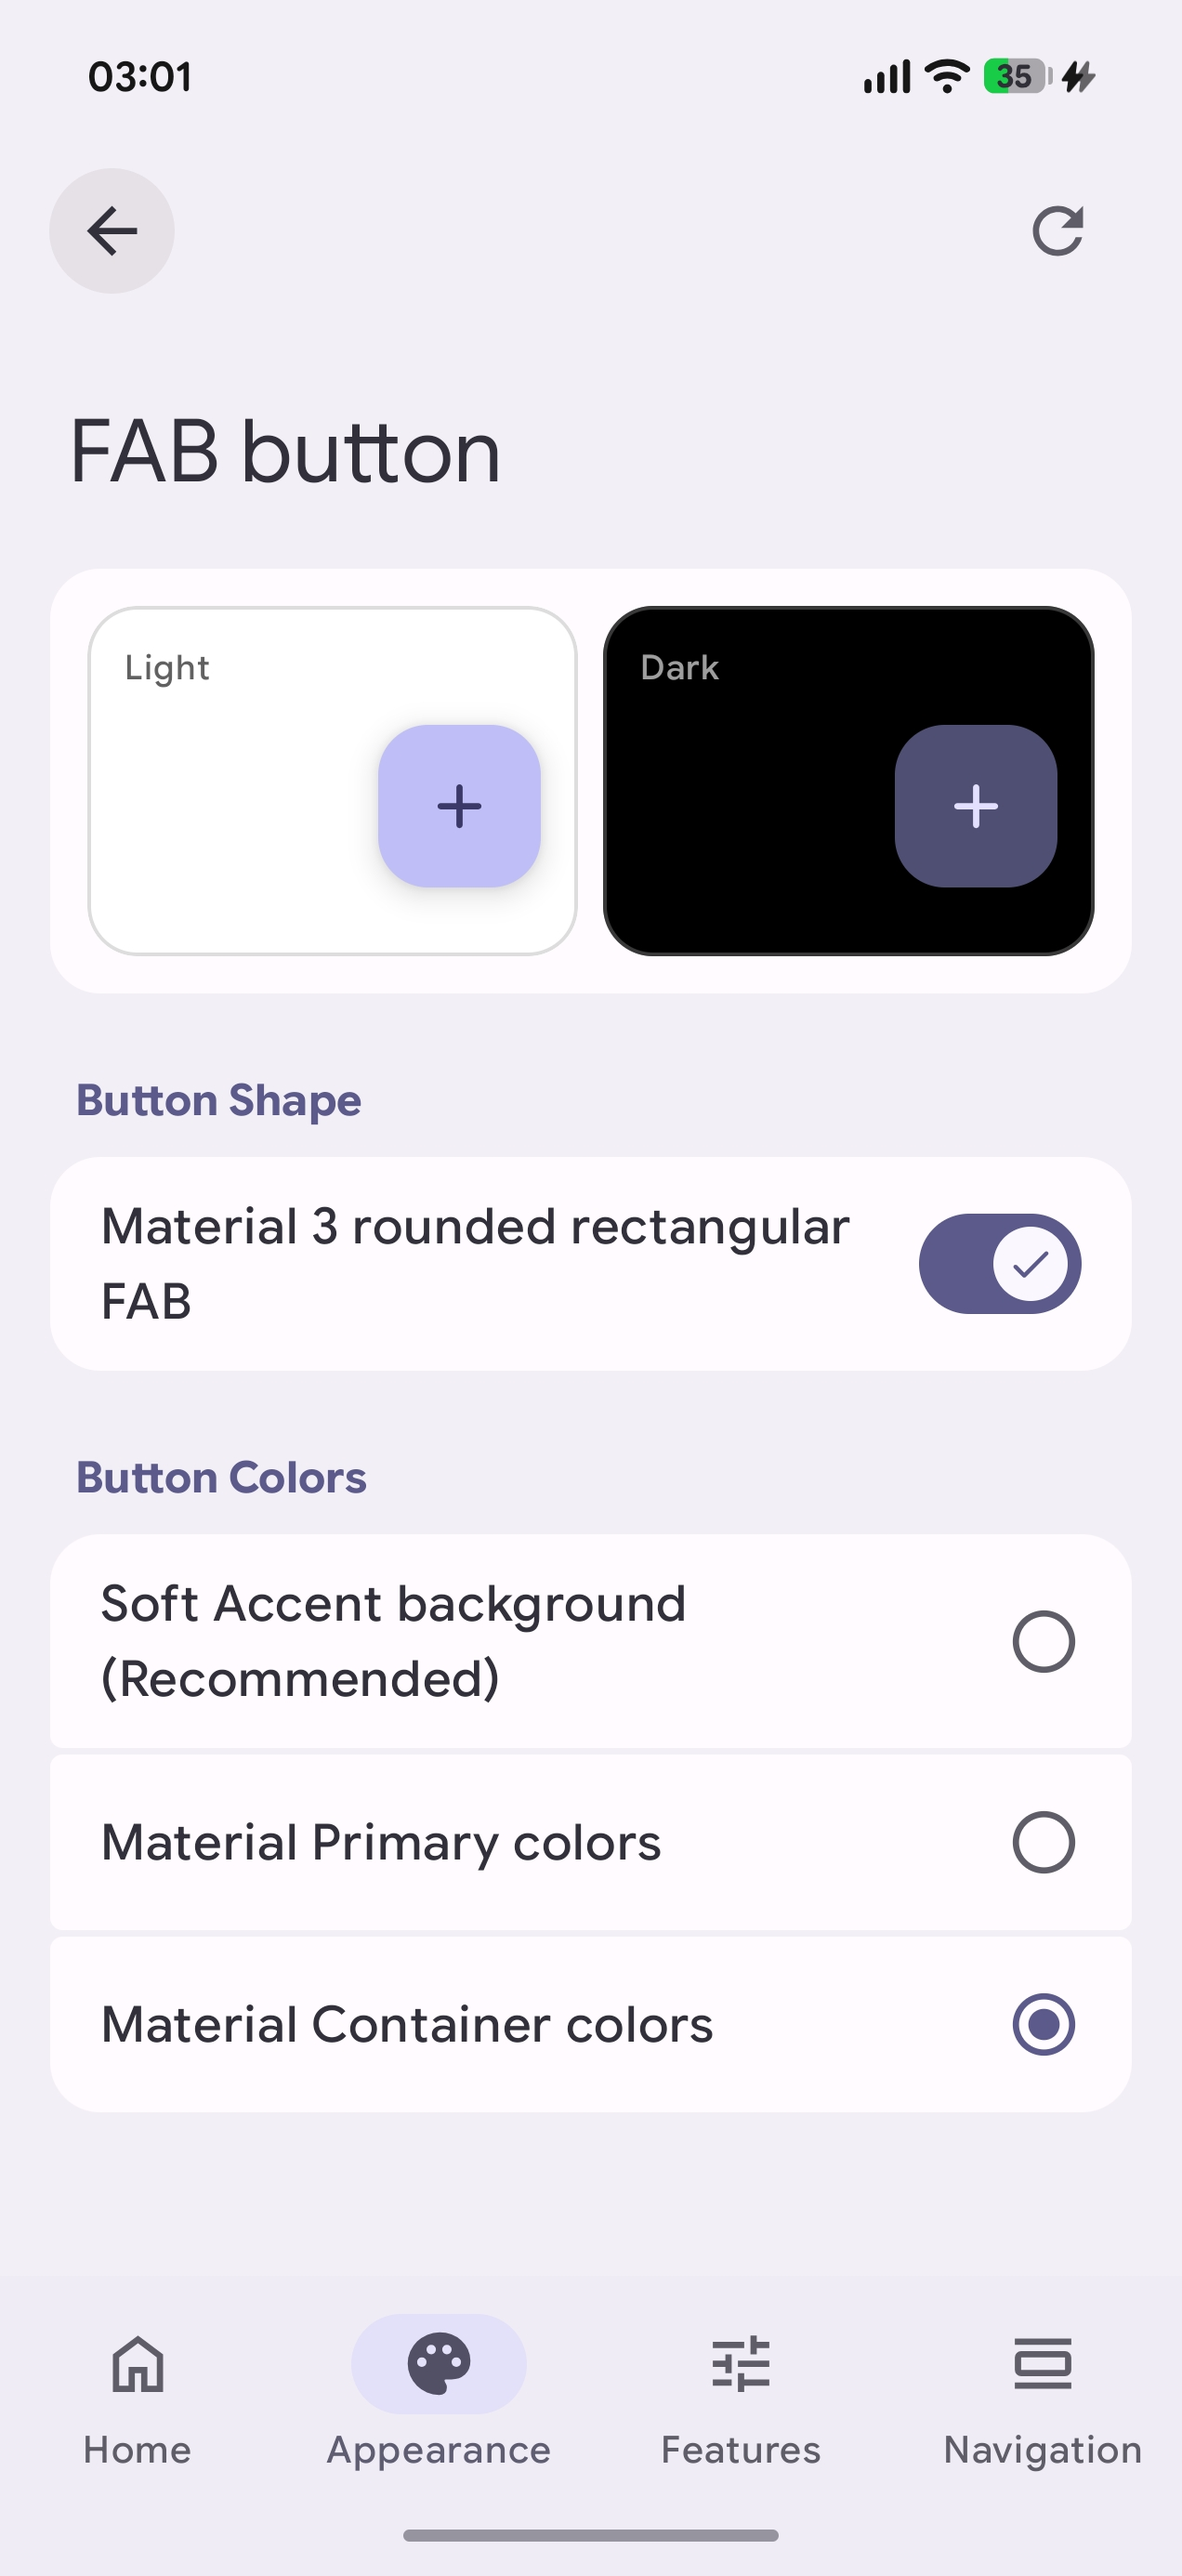
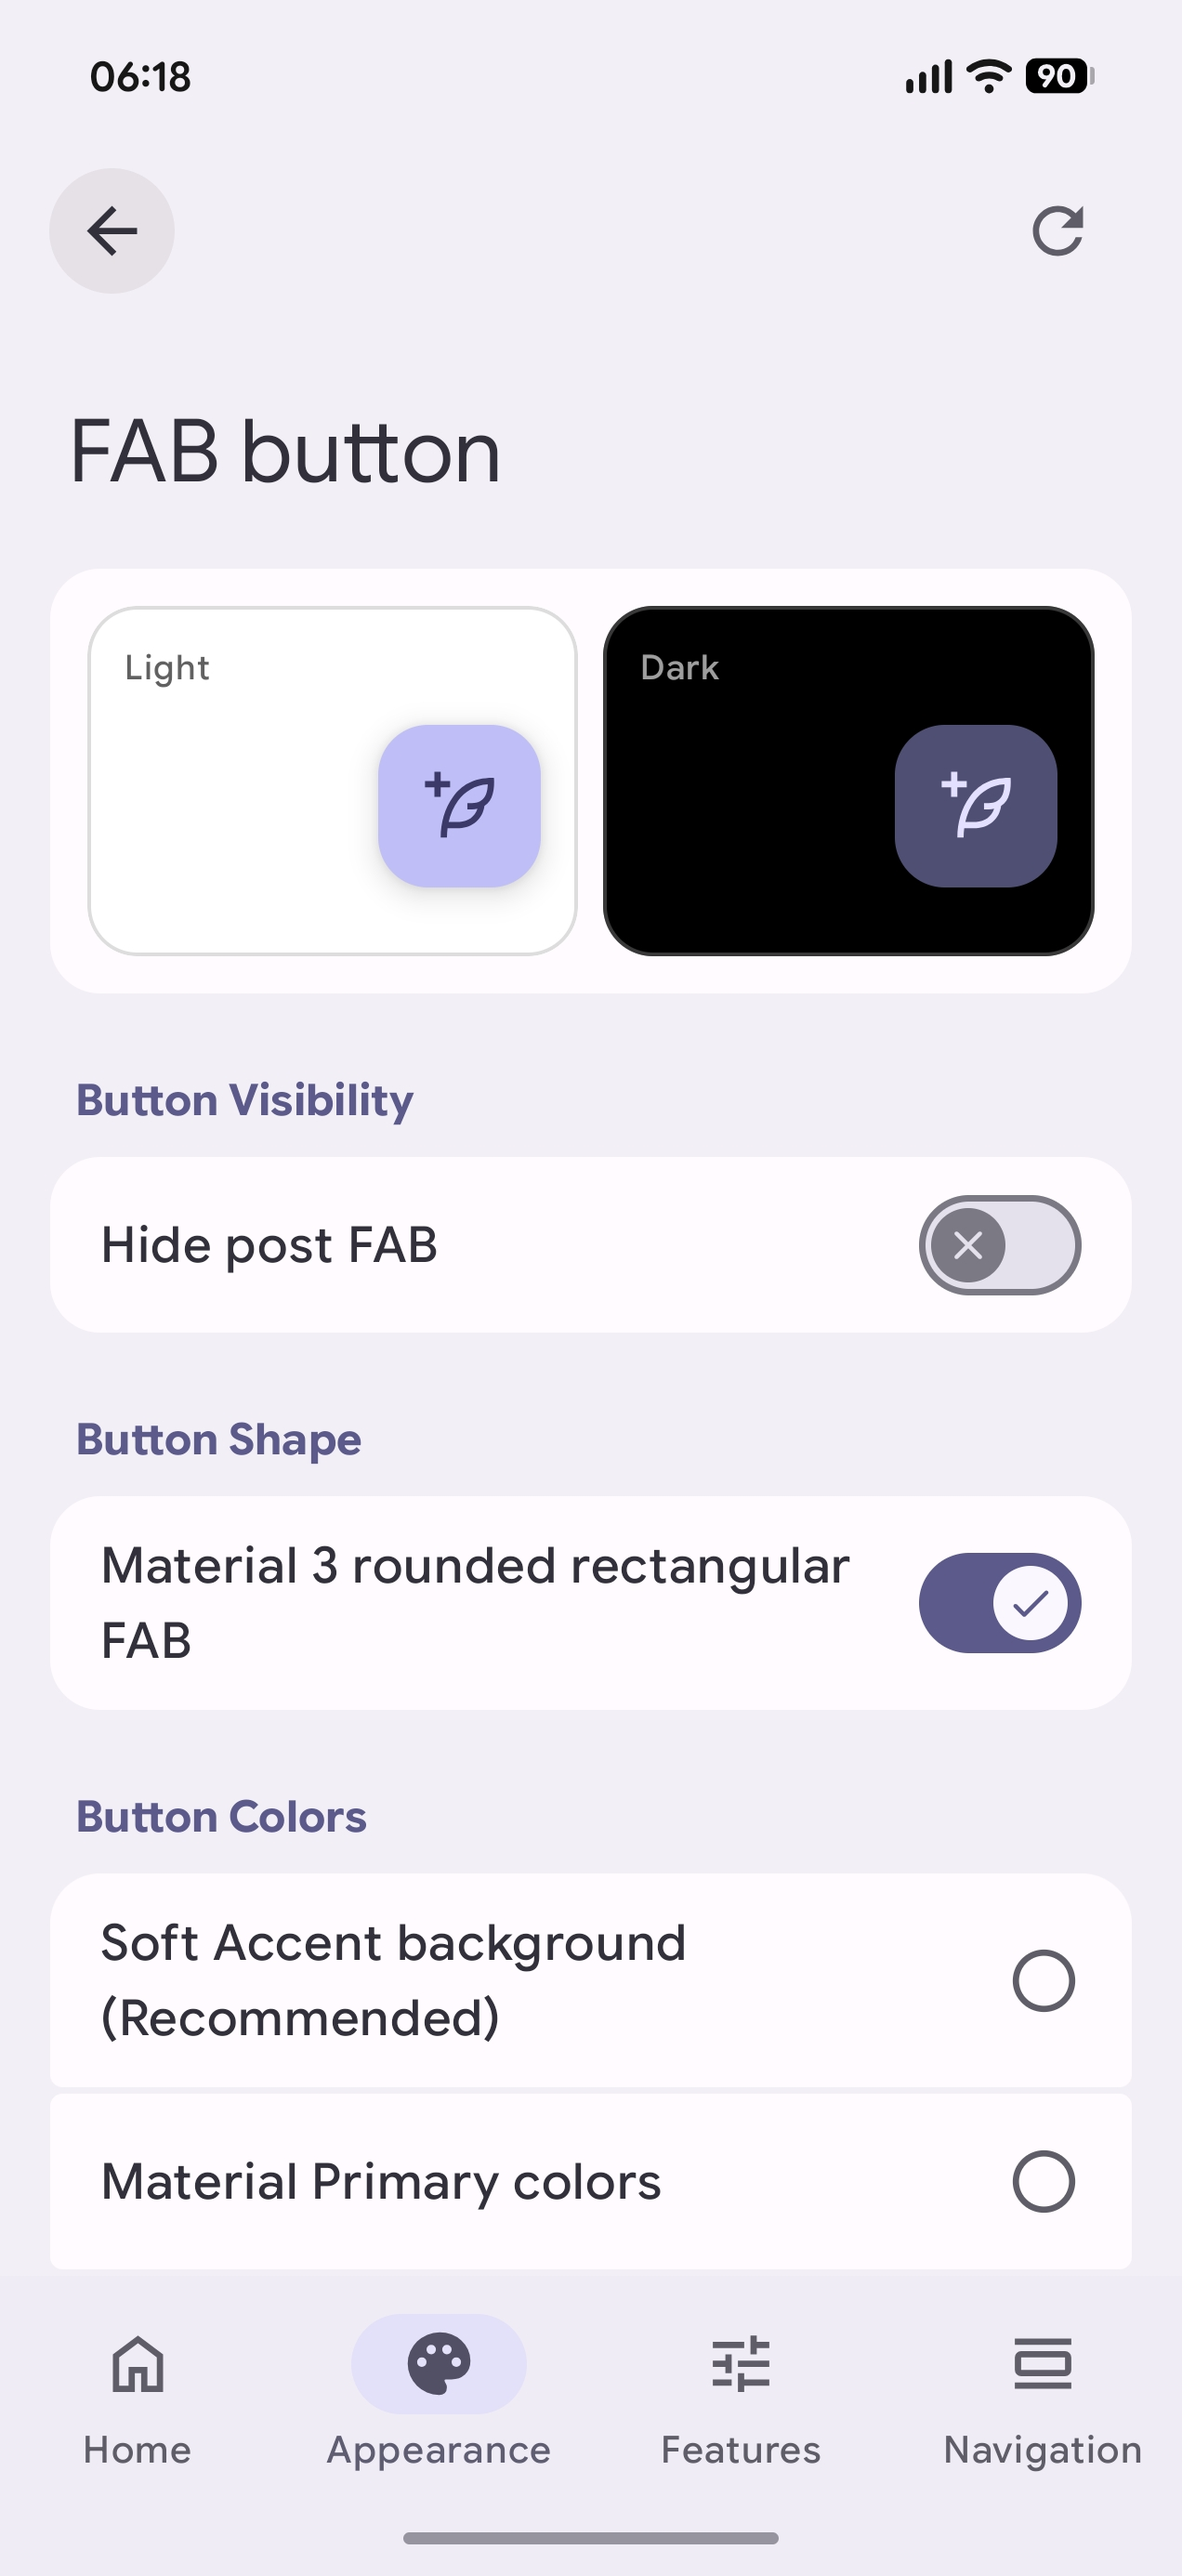
docs: refine README to align with 1.1.0

diff --git a/README.md b/README.md
@@ -50,7 +50,7 @@
     <td width="50%" align="center">
       <img src="assets/screenshots/fab_button.jpg" alt="FAB button"><br>
       <strong>FAB button</strong><br>
-      <sub>Material 3 rounded rectangle with configurable color schemes</sub>
+      <sub>Show/hide, Material 3 rounded rectangle with configurable color schemes</sub>
     </td>
   </tr>
   <tr>
@@ -62,7 +62,7 @@
     <td width="50%" align="center">
       <img src="assets/screenshots/features.jpg" alt="Features and enhancements"><br>
       <strong>Features & enhancements</strong><br>
-      <sub>Grok cleanup, custom share domains, media downloads, and search result tab controls</sub>
+      <sub>Grok cleanup, custom share domains, media downloads, post actions, and search result tab controls</sub>
     </td>
   </tr>
 </table>
@@ -76,6 +76,7 @@
 - Use system dynamic colors for the app theme, with optional Soft Accent and Material semantic color modes.
 - Make the standard Premium blue check follow the primary or tertiary theme color.
 - Configure separate splash screen color combinations for light and dark mode.
+- Hide the compose FAB.
 - Replace the circular compose FAB with a Material 3 rounded rectangle and choose from different Material color schemes.
 - Choose between X's default in-app floating notification, the old wide solid-color UI, or the newer compact UI with a blurred background that X has not enabled yet.
 - Independently choose the old, X default, or newer icon-based tab style for Home, profiles, Explore, and search details.
@@ -99,6 +100,7 @@
 - Hide promoted content in timelines and post replies.
 - Hide the live Spaces bar at the top of the timeline.
 - Hide the floating new-posts prompt at the top of the timeline.
+- Hide the Upgrade to Premium button in the Home top bar.
 - Prevent the Home timeline from refreshing automatically when the app starts or tab is switched.
 - Remember and restore the last tab when the app starts.
 - Remember and restore the last scroll position in the timeline when the app starts.
@@ -121,10 +123,12 @@
 - Hide the Grok button on post cards.
 - Hide the Grok item in the image long-press menu.
 - Hide the Grok button in the post detail toolbar.
+- Independently manage the `Reply`, `Repost`, `Like`, `Dislike`, `Views`, `Bookmark`, and `Share` action buttons below timeline posts, the main post on the detail screen, and replies on the detail screen.
 
-### Experimental
+### Other features
 
 - Browse and override Boolean Feature Switches collected from the currently supported X version.
+- Back up and restore settings.
 
 ## Where does the “Re” come in?
 

diff --git a/README_zh-CN.md b/README_zh-CN.md
@@ -50,7 +50,7 @@
     <td width="50%" align="center">
       <img src="assets/screenshots/fab_button.jpg" alt="FAB 按钮"><br>
       <strong>FAB 按钮</strong><br>
-      <sub>Material 3 圆角矩形与配色方案控制</sub>
+      <sub>显隐、Material 3 圆角矩形与配色方案控制</sub>
     </td>
   </tr>
   <tr>
@@ -62,7 +62,7 @@
     <td width="50%" align="center">
       <img src="assets/screenshots/features.jpg" alt="功能与增强"><br>
       <strong>功能与增强</strong><br>
-      <sub>净化 Grok、自定义分享域名、媒体下载与搜索结果 Tab 控制</sub>
+      <sub>净化 Grok、自定义分享域名、媒体下载、帖子操作与搜索结果 Tab 控制</sub>
     </td>
   </tr>
 </table>
@@ -76,6 +76,7 @@
 - 主题色使用系统动态取色，可选柔和 Accent 或 Material 语义色模式
 - 让普通 Premium 认证蓝勾跟随主色或第三主题色
 - 分别设置浅色、深色模式的 Splash 启动界面配色组合
+- 隐藏发帖 FAB
 - 将圆形发帖 FAB 改为 Material 3 圆角矩形，并选择不同 Material 配色方案
 - 为应用内悬浮通知选择 X 默认、旧版纯色宽 UI 或未启用的新版模糊背景小 UI
 - 分别为主页、用户主页、探索页和搜索详情页选择旧版、X 默认或新版带图标 Tab 样式
@@ -99,6 +100,7 @@
 - 隐藏信息流和帖子回复中的推广内容
 - 隐藏信息流顶部的直播空间栏
 - 隐藏信息流顶部的新帖悬浮提示
+- 隐藏首页顶栏升级 Premium 按钮
 - 阻止首页信息流在应用启动或 Tab 切换时自动刷新
 - 启动应用时记忆并恢复选中的首页 Tab
 - 启动应用时记忆并恢复上次在信息流中的滚动位置
@@ -121,10 +123,12 @@
 - 隐藏帖子卡片中的 Grok 按钮
 - 隐藏图片长按菜单中的 Grok 项
 - 隐藏帖子详情页顶栏的 Grok 按钮
+- 分别管理时间线帖子、详情页主帖、详情页回复的 `回复` `转帖` `喜欢` `不喜欢` `浏览` `书签` `分享` 这几个帖子底部操作按钮
 
-### 实验功能
+### 其他功能
 
 - 浏览并覆盖当前适配版本中整理出的布尔 Feature Switch
+- 设置备份与恢复
 
 ## 哪里 Re 了
 
